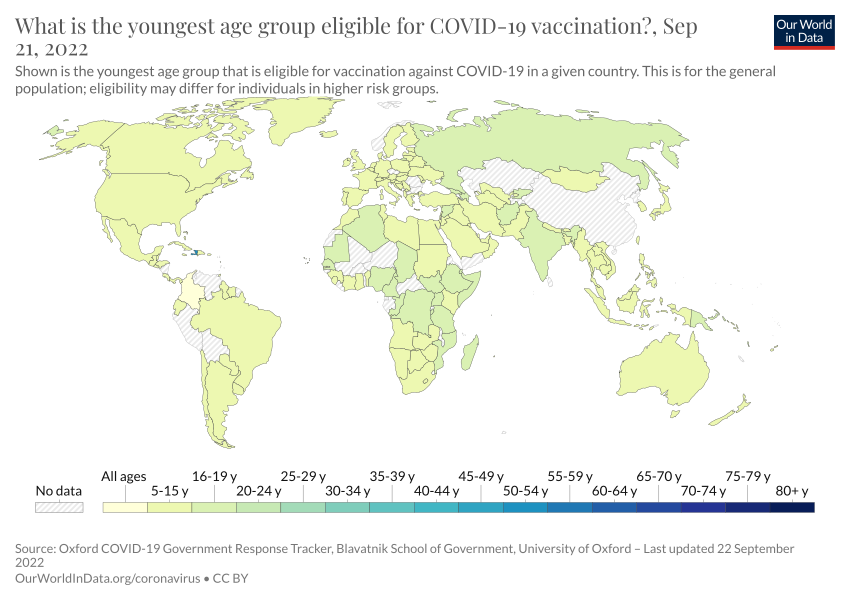
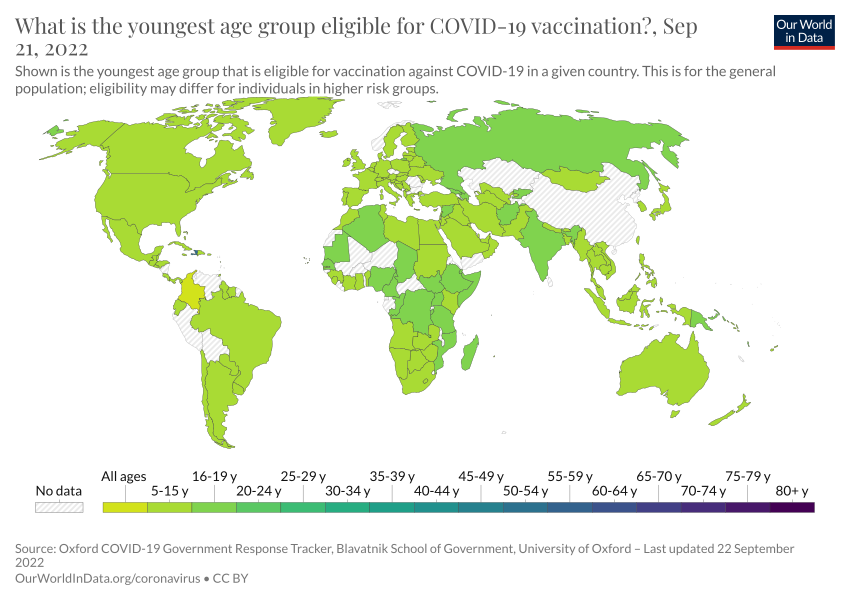
Deploy 2022-09-22T16:21:05.325Z Updating chart youngest-age-covid-vaccination

diff --git a/co2-emissions.html b/co2-emissions.html
@@ -1,4 +1,4 @@
-<!doctype html><html><head><meta name="viewport" content="width=device-width, initial-scale=1"/><title>CO2 emissions - Our World in Data</title><meta name="description" content="How much CO2 does the world emit? Which countries emit the most?"/><link rel="canonical" href="https://ourworldindata.org/co2-emissions"/><link rel="alternate" type="application/atom+xml" href="/atom.xml"/><link rel="apple-touch-icon" sizes="180x180" href="/apple-touch-icon.png"/><meta property="fb:app_id" content="1149943818390250"/><meta property="og:url" content="https://ourworldindata.org/co2-emissions"/><meta property="og:title" content="CO2 emissions"/><meta property="og:description" content="How much CO2 does the world emit? Which countries emit the most?"/><meta property="og:image" content="https://ourworldindata.org/uploads/2022/03/Screenshot-2022-03-04-at-16.51.31-768x480.png"/><meta property="og:site_name" content="Our World in Data"/><meta name="twitter:card" content="summary_large_image"/><meta name="twitter:site" content="@OurWorldInData"/><meta name="twitter:creator" content="@OurWorldInData"/><meta name="twitter:title" content="CO2 emissions"/><meta name="twitter:description" content="How much CO2 does the world emit? Which countries emit the most?"/><meta name="twitter:image" content="https://ourworldindata.org/uploads/2022/03/Screenshot-2022-03-04-at-16.51.31-768x480.png"/><link href="https://fonts.googleapis.com/css?family=Lato:300,400,400i,700,700i|Playfair+Display:400,700&amp;display=swap" rel="stylesheet"/><link rel="stylesheet" href="https://ourworldindata.org/assets/commons.css"/><link rel="stylesheet" href="https://ourworldindata.org/assets/owid.css"/><meta name="citation_title" content="CO₂ and Greenhouse Gas Emissions"/><meta name="citation_fulltext_html_url" content="https://ourworldindata.org/co2-and-other-greenhouse-gas-emissions"/><meta name="citation_fulltext_world_readable" content=""/><meta name="citation_publication_date" content="2020/05/11"/><meta name="citation_journal_title" content="Our World in Data"/><meta name="citation_journal_abbrev" content="Our World in Data"/><meta name="citation_author" content="Hannah Ritchie"/><meta name="citation_author" content="Max Roser"/><meta name="citation_author" content="Pablo Rosado"/></head><body class=""><header class="site-header"><div class="wrapper site-navigation-bar"><div class="site-logo"><a href="/">Our World<br/> in Data</a></div><nav class="site-navigation"><div class="topics-button-wrapper"><a href="/#entries" class="topics-button"><div class="label">Articles <br/><strong>by topic</strong></div><div class="icon"><svg width="12" height="6"><path d="M0,0 L12,0 L6,6 Z" fill="currentColor"></path></svg></div></a></div><div><div class="site-primary-navigation"><form class="HeaderSearch" action="/search" method="GET"><input type="search" name="q" placeholder="Search..."/><div class="icon"><svg aria-hidden="true" focusable="false" data-prefix="fas" data-icon="magnifying-glass" class="svg-inline--fa fa-magnifying-glass " role="img" xmlns="http://www.w3.org/2000/svg" viewBox="0 0 512 512"><path fill="currentColor" d="M416 208c0 45.9-14.9 88.3-40 122.7L502.6 457.4c12.5 12.5 12.5 32.8 0 45.3s-32.8 12.5-45.3 0L330.7 376c-34.4 25.2-76.8 40-122.7 40C93.1 416 0 322.9 0 208S93.1 0 208 0S416 93.1 416 208zM208 352c79.5 0 144-64.5 144-144s-64.5-144-144-144S64 128.5 64 208s64.5 144 144 144z"></path></svg></div></form><ul class="site-primary-links"><li><a href="/blog" data-track-note="header-navigation">Latest</a></li><li><a href="/about" data-track-note="header-navigation">About</a></li><li><a href="/donate" data-track-note="header-navigation">Donate</a></li></ul></div><div class="site-secondary-navigation"><ul class="site-secondary-links"><li><a href="/charts" data-track-note="header-navigation">All charts</a></li><li><a href="https://sdg-tracker.org" data-track-note="header-navigation">Sustainable Development Goals Tracker</a></li></ul></div></div></nav><div class="header-logos-wrapper"><a href="https://www.oxfordmartin.ox.ac.uk/global-development" class="oxford-logo"><img src="https://ourworldindata.org/oms-logo.svg" alt="Oxford Martin School logo"/></a><a href="https://global-change-data-lab.org/" class="gcdl-logo"><img src="https://ourworldindata.org/gcdl-logo.svg" alt="Global Change Data Lab logo"/></a></div><div class="mobile-site-navigation"><button data-track-note="mobile-search-button"><svg aria-hidden="true" focusable="false" data-prefix="fas" data-icon="magnifying-glass" class="svg-inline--fa fa-magnifying-glass " role="img" xmlns="http://www.w3.org/2000/svg" viewBox="0 0 512 512"><path fill="currentColor" d="M416 208c0 45.9-14.9 88.3-40 122.7L502.6 457.4c12.5 12.5 12.5 32.8 0 45.3s-32.8 12.5-45.3 0L330.7 376c-34.4 25.2-76.8 40-122.7 40C93.1 416 0 322.9 0 208S93.1 0 208 0S416 93.1 416 208zM208 352c79.5 0 144-64.5 144-144s-64.5-144-144-144S64 128.5 64 208s64.5 144 144 144z"></path></svg></button><button data-track-note="mobile-newsletter-button"><svg aria-hidden="true" focusable="false" data-prefix="fas" data-icon="envelope-open-text" class="svg-inline--fa fa-envelope-open-text " role="img" xmlns="http://www.w3.org/2000/svg" viewBox="0 0 512 512"><path fill="currentColor" d="M215.4 96H144 107.8 96v8.8V144v40.4 89L.2 202.5c1.6-18.1 10.9-34.9 25.7-45.8L48 140.3V96c0-26.5 21.5-48 48-48h76.6l49.9-36.9C232.2 3.9 243.9 0 256 0s23.8 3.9 33.5 11L339.4 48H416c26.5 0 48 21.5 48 48v44.3l22.1 16.4c14.8 10.9 24.1 27.7 25.7 45.8L416 273.4v-89V144 104.8 96H404.2 368 296.6 215.4zM0 448V242.1L217.6 403.3c11.1 8.2 24.6 12.7 38.4 12.7s27.3-4.4 38.4-12.7L512 242.1V448v0c0 35.3-28.7 64-64 64H64c-35.3 0-64-28.7-64-64v0zM176 160H336c8.8 0 16 7.2 16 16s-7.2 16-16 16H176c-8.8 0-16-7.2-16-16s7.2-16 16-16zm0 64H336c8.8 0 16 7.2 16 16s-7.2 16-16 16H176c-8.8 0-16-7.2-16-16s7.2-16 16-16z"></path></svg></button><button data-track-note="mobile-hamburger-button"><svg aria-hidden="true" focusable="false" data-prefix="fas" data-icon="bars" class="svg-inline--fa fa-bars " role="img" xmlns="http://www.w3.org/2000/svg" viewBox="0 0 448 512"><path fill="currentColor" d="M0 96C0 78.3 14.3 64 32 64H416c17.7 0 32 14.3 32 32s-14.3 32-32 32H32C14.3 128 0 113.7 0 96zM0 256c0-17.7 14.3-32 32-32H416c17.7 0 32 14.3 32 32s-14.3 32-32 32H32c-17.7 0-32-14.3-32-32zM448 416c0 17.7-14.3 32-32 32H32c-17.7 0-32-14.3-32-32s14.3-32 32-32H416c17.7 0 32 14.3 32 32z"></path></svg></button></div></div></header><div class="alert-banner"><div class="content"><div class="text"><strong>COVID-19 vaccinations, cases, excess mortality, and much more</strong></div><a href="/coronavirus#explore-the-global-situation" data-track-note="covid-banner-click">Explore our COVID-19 data</a></div></div><main><article class="page with-sidebar large-banner"><div class="offset-header"><header class="article-header"><div class="article-titles"><h1 class="entry-title">CO2 emissions</h1><div class="breadcrumb"><a href="/">Home</a><span class="separator"><svg aria-hidden="true" focusable="false" data-prefix="fas" data-icon="angle-right" class="svg-inline--fa fa-angle-right " role="img" xmlns="http://www.w3.org/2000/svg" viewBox="0 0 320 512"><path fill="currentColor" d="M278.6 233.4c12.5 12.5 12.5 32.8 0 45.3l-160 160c-12.5 12.5-32.8 12.5-45.3 0s-12.5-32.8 0-45.3L210.7 256 73.4 118.6c-12.5-12.5-12.5-32.8 0-45.3s32.8-12.5 45.3 0l160 160z"></path></svg></span><a data-track-note="breadcrumb" href="/co2-and-other-greenhouse-gas-emissions">CO₂ and GHG Emissions</a><span class="separator"><svg aria-hidden="true" focusable="false" data-prefix="fas" data-icon="angle-right" class="svg-inline--fa fa-angle-right " role="img" xmlns="http://www.w3.org/2000/svg" viewBox="0 0 320 512"><path fill="currentColor" d="M278.6 233.4c12.5 12.5 12.5 32.8 0 45.3l-160 160c-12.5 12.5-32.8 12.5-45.3 0s-12.5-32.8 0-45.3L210.7 256 73.4 118.6c-12.5-12.5-12.5-32.8 0-45.3s32.8-12.5 45.3 0l160 160z"></path></svg></span><span>CO₂ emissions</span></div></div><div class="authors-byline"><a href="/team">by Hannah Ritchie and Max Roser</a></div><div class="tools"><a href="#licence"><svg aria-hidden="true" focusable="false" data-prefix="fab" data-icon="creative-commons" class="svg-inline--fa fa-creative-commons " role="img" xmlns="http://www.w3.org/2000/svg" viewBox="0 0 496 512"><path fill="currentColor" d="M245.83 214.87l-33.22 17.28c-9.43-19.58-25.24-19.93-27.46-19.93-22.13 0-33.22 14.61-33.22 43.84 0 23.57 9.21 43.84 33.22 43.84 14.47 0 24.65-7.09 30.57-21.26l30.55 15.5c-6.17 11.51-25.69 38.98-65.1 38.98-22.6 0-73.96-10.32-73.96-77.05 0-58.69 43-77.06 72.63-77.06 30.72-.01 52.7 11.95 65.99 35.86zm143.05 0l-32.78 17.28c-9.5-19.77-25.72-19.93-27.9-19.93-22.14 0-33.22 14.61-33.22 43.84 0 23.55 9.23 43.84 33.22 43.84 14.45 0 24.65-7.09 30.54-21.26l31 15.5c-2.1 3.75-21.39 38.98-65.09 38.98-22.69 0-73.96-9.87-73.96-77.05 0-58.67 42.97-77.06 72.63-77.06 30.71-.01 52.58 11.95 65.56 35.86zM247.56 8.05C104.74 8.05 0 123.11 0 256.05c0 138.49 113.6 248 247.56 248 129.93 0 248.44-100.87 248.44-248 0-137.87-106.62-248-248.44-248zm.87 450.81c-112.54 0-203.7-93.04-203.7-202.81 0-105.42 85.43-203.27 203.72-203.27 112.53 0 202.82 89.46 202.82 203.26-.01 121.69-99.68 202.82-202.84 202.82z"></path></svg>Reuse our work freely</a><a href="#citation"><svg aria-hidden="true" focusable="false" data-prefix="fas" data-icon="book" class="svg-inline--fa fa-book " role="img" xmlns="http://www.w3.org/2000/svg" viewBox="0 0 448 512"><path fill="currentColor" d="M96 0C43 0 0 43 0 96V416c0 53 43 96 96 96H384h32c17.7 0 32-14.3 32-32s-14.3-32-32-32V384c17.7 0 32-14.3 32-32V32c0-17.7-14.3-32-32-32H384 96zm0 384H352v64H96c-17.7 0-32-14.3-32-32s14.3-32 32-32zm32-240c0-8.8 7.2-16 16-16H336c8.8 0 16 7.2 16 16s-7.2 16-16 16H144c-8.8 0-16-7.2-16-16zm16 48H336c8.8 0 16 7.2 16 16s-7.2 16-16 16H144c-8.8 0-16-7.2-16-16s7.2-16 16-16z"></path></svg>Cite this research</a></div></header></div><div class="offset-subnavigation"><div class="site-subnavigation"><div class="site-subnavigation-scroll"><ul class="site-subnavigation-links"><li class="highlight"><a href="/co2-and-other-greenhouse-gas-emissions" data-track-note="co2-subnav-co2-and-ghg-emissions">CO₂ and GHG Emissions<svg aria-hidden="true" focusable="false" data-prefix="fas" data-icon="chevron-left" class="svg-inline--fa fa-chevron-left " role="img" xmlns="http://www.w3.org/2000/svg" viewBox="0 0 384 512"><path fill="currentColor" d="M41.4 233.4c-12.5 12.5-12.5 32.8 0 45.3l192 192c12.5 12.5 32.8 12.5 45.3 0s12.5-32.8 0-45.3L109.3 256 278.6 86.6c12.5-12.5 12.5-32.8 0-45.3s-32.8-12.5-45.3 0l-192 192z"></path></svg></a></li><li class=""><a href="/co2-and-other-greenhouse-gas-emissions#co2-and-greenhouse-gas-emissions-country-profiles" data-track-note="co2-subnav-by-country">By country</a></li><li class=""><a href="/explorers/co2" data-track-note="co2-subnav-co2-data-explorer">Data explorer</a></li><li class="current"><a href="/co2-emissions" data-track-note="co2-subnav-co2-emissions">CO₂ emissions</a></li><li class=""><a href="/emissions-by-fuel" data-track-note="co2-subnav-by-fuel">CO₂ by fuel</a></li><li class=""><a href="/greenhouse-gas-emissions" data-track-note="co2-subnav-ghg-emissions">GHG emissions</a></li><li class=""><a href="/emissions-by-sector" data-track-note="co2-subnav-by-sector">By sector</a></li><li class=""><a href="/atmospheric-concentrations" data-track-note="co2-subnav-atm-concentrations">Atmospheric concentrations</a></li><li class=""><a href="/explorers/climate-change" data-track-note="co2-subnav-climate-impacts">Climate impacts</a></li></ul></div></div></div><div class="content-wrapper"><div class="toc-wrapper"><aside class="entry-sidebar"><div class="sticky-sentinel"></div><nav class="entry-toc"><ul><li><a href="#" data-track-note="toc-header">CO2 emissions</a></li><li class="section"><a href="#global-co2-emissions-from-fossil-fuels" data-track-note="toc-link">Global CO2 emissions from fossil fuels</a></li><li class="subsection"><a href="#global-co2-emissions-from-fossil-fuels-global-co2-emissions-from-fossil-fuels" data-track-note="toc-link">Global CO2 emissions from fossil fuels</a></li><li class="subsection"><a href="#global-co2-emissions-from-fossil-fuels-and-land-use-change" data-track-note="toc-link">Global CO2 emissions from fossil fuels and land use change</a></li><li class="subsection"><a href="#co2-emissions-by-region" data-track-note="toc-link">CO2 emissions by region</a></li><li class="section"><a href="#per-capita-co2-emissions" data-track-note="toc-link">Per capita CO2 emissions</a></li><li class="section"><a href="#annual-co2-emissions" data-track-note="toc-link">Annual CO2 emissions</a></li><li class="section"><a href="#annual-change-in-co2-emissions" data-track-note="toc-link">Annual change in CO2 emissions</a></li><li class="section"><a href="#cumulative-co2-emissions" data-track-note="toc-link">Cumulative CO2 emissions</a></li><li class="section"><a href="#consumption-based-trade-adjusted-emissions" data-track-note="toc-link">Consumption-based (trade-adjusted) emissions</a></li><li class="section"><a href="#decoupling-co2-emissions-from-economic-growth" data-track-note="toc-link">Decoupling CO₂ emissions from economic growth</a></li><li class="section"><a href="#global-inequalities-in-co2-emissions" data-track-note="toc-link">Global inequalities in CO2 emissions</a></li><li class="subsection"><a href="#global-inequalities-by-production" data-track-note="toc-link">Global inequalities by production</a></li><li class="subsection"><a href="#global-inequalities-by-consumption" data-track-note="toc-link">Global inequalities by consumption</a></li><li class="section"><a href="#how-do-we-measure-or-estimate-co2-emissions" data-track-note="toc-link">How do we measure or estimate CO2 emissions?</a></li><li class="section"><a href="#endnotes" data-track-note="toc-link">Endnotes</a></li><li class="section"><a href="#licence" data-track-note="toc-link">Licence</a></li><li class="section"><a href="#citation" data-track-note="toc-link">Citation</a></li></ul></nav><div class="toggle-toc"><button data-track-note="page-toggle-toc" aria-label="Open table of contents"><svg aria-hidden="true" focusable="false" data-prefix="fas" data-icon="bars" class="svg-inline--fa fa-bars " role="img" xmlns="http://www.w3.org/2000/svg" viewBox="0 0 448 512"><path fill="currentColor" d="M0 96C0 78.3 14.3 64 32 64H416c17.7 0 32 14.3 32 32s-14.3 32-32 32H32C14.3 128 0 113.7 0 96zM0 256c0-17.7 14.3-32 32-32H416c17.7 0 32 14.3 32 32s-14.3 32-32 32H32c-17.7 0-32-14.3-32-32zM448 416c0 17.7-14.3 32-32 32H32c-17.7 0-32-14.3-32-32s14.3-32 32-32H416c17.7 0 32 14.3 32 32z"></path></svg><span class="label">Contents</span></button></div></aside></div><div class="offset-content"><div class="content-and-footnotes"><div class="article-content"><section><div class="wp-block-columns is-style-sticky-right"><div class="wp-block-column"><p>You can&nbsp;<strong><a href="https://github.com/owid/co2-data">download</a></strong>&nbsp;our complete <em>Our World in Data</em> CO<sub>2</sub> and Greenhouse Gas Emissions database.</p><hr class="wp-block-separator"><p>Carbon dioxide emissions are the primary driver of global climate change. It’s widely recognised that to avoid the worst impacts of climate change, the world needs to urgently reduce emissions. But, how this responsibility is shared between regions, countries, and individuals has been an endless point of contention in international discussions. </p><p>This debate arises from the various ways in which emissions are compared: as annual emissions by country; emissions per person; historical contributions; and whether they adjust for traded goods and services. These metrics can tell very different stories. </p><p>We teamed up with the YouTube channel, <em>Kurzgesagt</em>, to produce a video which explored these different metrics in detail: <a href="https://www.youtube.com/watch?v=ipVxxxqwBQw">‘Who is responsible for climate change? – Who needs to fix it?’</a>. All of the data and research featured in this video is contained in this article: below we look in detail at the many ways emissions are broken down.</p><div class="wp-container-632c86b216b20 wp-block-group">    <div class="block-wrapper"><div class="wp-block-owid-prominent-link with-image" data-no-lightbox="true" data-style="is-style-thin" data-title="&nbsp;‘Who is responsible for climate change? – Who needs to fix it?’"><a href="https://www.youtube.com/watch?v=ipVxxxqwBQw"><figure><img width="768" height="433" src="https://ourworldindata.org/uploads/2020/06/CO2-Kurzgesagt-768x433.png" class="attachment-medium_large size-medium_large" alt="Co2 kurzgesagt" loading="lazy" srcset="https://ourworldindata.org/uploads/2020/06/CO2-Kurzgesagt-768x433.png 768w, https://ourworldindata.org/uploads/2020/06/CO2-Kurzgesagt-400x225.png 400w, https://ourworldindata.org/uploads/2020/06/CO2-Kurzgesagt-800x451.png 800w, https://ourworldindata.org/uploads/2020/06/CO2-Kurzgesagt-150x84.png 150w, https://ourworldindata.org/uploads/2020/06/CO2-Kurzgesagt.png 1422w" sizes="(max-width: 768px) 100vw, 768px" data-high-res-src="https://ourworldindata.org/uploads/2020/06/CO2-Kurzgesagt.png"></figure><div class="content-wrapper"><div class="content">
+<!doctype html><html><head><meta name="viewport" content="width=device-width, initial-scale=1"/><title>CO2 emissions - Our World in Data</title><meta name="description" content="How much CO2 does the world emit? Which countries emit the most?"/><link rel="canonical" href="https://ourworldindata.org/co2-emissions"/><link rel="alternate" type="application/atom+xml" href="/atom.xml"/><link rel="apple-touch-icon" sizes="180x180" href="/apple-touch-icon.png"/><meta property="fb:app_id" content="1149943818390250"/><meta property="og:url" content="https://ourworldindata.org/co2-emissions"/><meta property="og:title" content="CO2 emissions"/><meta property="og:description" content="How much CO2 does the world emit? Which countries emit the most?"/><meta property="og:image" content="https://ourworldindata.org/uploads/2022/03/Screenshot-2022-03-04-at-16.51.31-768x480.png"/><meta property="og:site_name" content="Our World in Data"/><meta name="twitter:card" content="summary_large_image"/><meta name="twitter:site" content="@OurWorldInData"/><meta name="twitter:creator" content="@OurWorldInData"/><meta name="twitter:title" content="CO2 emissions"/><meta name="twitter:description" content="How much CO2 does the world emit? Which countries emit the most?"/><meta name="twitter:image" content="https://ourworldindata.org/uploads/2022/03/Screenshot-2022-03-04-at-16.51.31-768x480.png"/><link href="https://fonts.googleapis.com/css?family=Lato:300,400,400i,700,700i|Playfair+Display:400,700&amp;display=swap" rel="stylesheet"/><link rel="stylesheet" href="https://ourworldindata.org/assets/commons.css"/><link rel="stylesheet" href="https://ourworldindata.org/assets/owid.css"/><meta name="citation_title" content="CO₂ and Greenhouse Gas Emissions"/><meta name="citation_fulltext_html_url" content="https://ourworldindata.org/co2-and-other-greenhouse-gas-emissions"/><meta name="citation_fulltext_world_readable" content=""/><meta name="citation_publication_date" content="2020/05/11"/><meta name="citation_journal_title" content="Our World in Data"/><meta name="citation_journal_abbrev" content="Our World in Data"/><meta name="citation_author" content="Hannah Ritchie"/><meta name="citation_author" content="Max Roser"/><meta name="citation_author" content="Pablo Rosado"/></head><body class=""><header class="site-header"><div class="wrapper site-navigation-bar"><div class="site-logo"><a href="/">Our World<br/> in Data</a></div><nav class="site-navigation"><div class="topics-button-wrapper"><a href="/#entries" class="topics-button"><div class="label">Articles <br/><strong>by topic</strong></div><div class="icon"><svg width="12" height="6"><path d="M0,0 L12,0 L6,6 Z" fill="currentColor"></path></svg></div></a></div><div><div class="site-primary-navigation"><form class="HeaderSearch" action="/search" method="GET"><input type="search" name="q" placeholder="Search..."/><div class="icon"><svg aria-hidden="true" focusable="false" data-prefix="fas" data-icon="magnifying-glass" class="svg-inline--fa fa-magnifying-glass " role="img" xmlns="http://www.w3.org/2000/svg" viewBox="0 0 512 512"><path fill="currentColor" d="M416 208c0 45.9-14.9 88.3-40 122.7L502.6 457.4c12.5 12.5 12.5 32.8 0 45.3s-32.8 12.5-45.3 0L330.7 376c-34.4 25.2-76.8 40-122.7 40C93.1 416 0 322.9 0 208S93.1 0 208 0S416 93.1 416 208zM208 352c79.5 0 144-64.5 144-144s-64.5-144-144-144S64 128.5 64 208s64.5 144 144 144z"></path></svg></div></form><ul class="site-primary-links"><li><a href="/blog" data-track-note="header-navigation">Latest</a></li><li><a href="/about" data-track-note="header-navigation">About</a></li><li><a href="/donate" data-track-note="header-navigation">Donate</a></li></ul></div><div class="site-secondary-navigation"><ul class="site-secondary-links"><li><a href="/charts" data-track-note="header-navigation">All charts</a></li><li><a href="https://sdg-tracker.org" data-track-note="header-navigation">Sustainable Development Goals Tracker</a></li></ul></div></div></nav><div class="header-logos-wrapper"><a href="https://www.oxfordmartin.ox.ac.uk/global-development" class="oxford-logo"><img src="https://ourworldindata.org/oms-logo.svg" alt="Oxford Martin School logo"/></a><a href="https://global-change-data-lab.org/" class="gcdl-logo"><img src="https://ourworldindata.org/gcdl-logo.svg" alt="Global Change Data Lab logo"/></a></div><div class="mobile-site-navigation"><button data-track-note="mobile-search-button"><svg aria-hidden="true" focusable="false" data-prefix="fas" data-icon="magnifying-glass" class="svg-inline--fa fa-magnifying-glass " role="img" xmlns="http://www.w3.org/2000/svg" viewBox="0 0 512 512"><path fill="currentColor" d="M416 208c0 45.9-14.9 88.3-40 122.7L502.6 457.4c12.5 12.5 12.5 32.8 0 45.3s-32.8 12.5-45.3 0L330.7 376c-34.4 25.2-76.8 40-122.7 40C93.1 416 0 322.9 0 208S93.1 0 208 0S416 93.1 416 208zM208 352c79.5 0 144-64.5 144-144s-64.5-144-144-144S64 128.5 64 208s64.5 144 144 144z"></path></svg></button><button data-track-note="mobile-newsletter-button"><svg aria-hidden="true" focusable="false" data-prefix="fas" data-icon="envelope-open-text" class="svg-inline--fa fa-envelope-open-text " role="img" xmlns="http://www.w3.org/2000/svg" viewBox="0 0 512 512"><path fill="currentColor" d="M215.4 96H144 107.8 96v8.8V144v40.4 89L.2 202.5c1.6-18.1 10.9-34.9 25.7-45.8L48 140.3V96c0-26.5 21.5-48 48-48h76.6l49.9-36.9C232.2 3.9 243.9 0 256 0s23.8 3.9 33.5 11L339.4 48H416c26.5 0 48 21.5 48 48v44.3l22.1 16.4c14.8 10.9 24.1 27.7 25.7 45.8L416 273.4v-89V144 104.8 96H404.2 368 296.6 215.4zM0 448V242.1L217.6 403.3c11.1 8.2 24.6 12.7 38.4 12.7s27.3-4.4 38.4-12.7L512 242.1V448v0c0 35.3-28.7 64-64 64H64c-35.3 0-64-28.7-64-64v0zM176 160H336c8.8 0 16 7.2 16 16s-7.2 16-16 16H176c-8.8 0-16-7.2-16-16s7.2-16 16-16zm0 64H336c8.8 0 16 7.2 16 16s-7.2 16-16 16H176c-8.8 0-16-7.2-16-16s7.2-16 16-16z"></path></svg></button><button data-track-note="mobile-hamburger-button"><svg aria-hidden="true" focusable="false" data-prefix="fas" data-icon="bars" class="svg-inline--fa fa-bars " role="img" xmlns="http://www.w3.org/2000/svg" viewBox="0 0 448 512"><path fill="currentColor" d="M0 96C0 78.3 14.3 64 32 64H416c17.7 0 32 14.3 32 32s-14.3 32-32 32H32C14.3 128 0 113.7 0 96zM0 256c0-17.7 14.3-32 32-32H416c17.7 0 32 14.3 32 32s-14.3 32-32 32H32c-17.7 0-32-14.3-32-32zM448 416c0 17.7-14.3 32-32 32H32c-17.7 0-32-14.3-32-32s14.3-32 32-32H416c17.7 0 32 14.3 32 32z"></path></svg></button></div></div></header><div class="alert-banner"><div class="content"><div class="text"><strong>COVID-19 vaccinations, cases, excess mortality, and much more</strong></div><a href="/coronavirus#explore-the-global-situation" data-track-note="covid-banner-click">Explore our COVID-19 data</a></div></div><main><article class="page with-sidebar large-banner"><div class="offset-header"><header class="article-header"><div class="article-titles"><h1 class="entry-title">CO2 emissions</h1><div class="breadcrumb"><a href="/">Home</a><span class="separator"><svg aria-hidden="true" focusable="false" data-prefix="fas" data-icon="angle-right" class="svg-inline--fa fa-angle-right " role="img" xmlns="http://www.w3.org/2000/svg" viewBox="0 0 320 512"><path fill="currentColor" d="M278.6 233.4c12.5 12.5 12.5 32.8 0 45.3l-160 160c-12.5 12.5-32.8 12.5-45.3 0s-12.5-32.8 0-45.3L210.7 256 73.4 118.6c-12.5-12.5-12.5-32.8 0-45.3s32.8-12.5 45.3 0l160 160z"></path></svg></span><a data-track-note="breadcrumb" href="/co2-and-other-greenhouse-gas-emissions">CO₂ and GHG Emissions</a><span class="separator"><svg aria-hidden="true" focusable="false" data-prefix="fas" data-icon="angle-right" class="svg-inline--fa fa-angle-right " role="img" xmlns="http://www.w3.org/2000/svg" viewBox="0 0 320 512"><path fill="currentColor" d="M278.6 233.4c12.5 12.5 12.5 32.8 0 45.3l-160 160c-12.5 12.5-32.8 12.5-45.3 0s-12.5-32.8 0-45.3L210.7 256 73.4 118.6c-12.5-12.5-12.5-32.8 0-45.3s32.8-12.5 45.3 0l160 160z"></path></svg></span><span>CO₂ emissions</span></div></div><div class="authors-byline"><a href="/team">by Hannah Ritchie and Max Roser</a></div><div class="tools"><a href="#licence"><svg aria-hidden="true" focusable="false" data-prefix="fab" data-icon="creative-commons" class="svg-inline--fa fa-creative-commons " role="img" xmlns="http://www.w3.org/2000/svg" viewBox="0 0 496 512"><path fill="currentColor" d="M245.83 214.87l-33.22 17.28c-9.43-19.58-25.24-19.93-27.46-19.93-22.13 0-33.22 14.61-33.22 43.84 0 23.57 9.21 43.84 33.22 43.84 14.47 0 24.65-7.09 30.57-21.26l30.55 15.5c-6.17 11.51-25.69 38.98-65.1 38.98-22.6 0-73.96-10.32-73.96-77.05 0-58.69 43-77.06 72.63-77.06 30.72-.01 52.7 11.95 65.99 35.86zm143.05 0l-32.78 17.28c-9.5-19.77-25.72-19.93-27.9-19.93-22.14 0-33.22 14.61-33.22 43.84 0 23.55 9.23 43.84 33.22 43.84 14.45 0 24.65-7.09 30.54-21.26l31 15.5c-2.1 3.75-21.39 38.98-65.09 38.98-22.69 0-73.96-9.87-73.96-77.05 0-58.67 42.97-77.06 72.63-77.06 30.71-.01 52.58 11.95 65.56 35.86zM247.56 8.05C104.74 8.05 0 123.11 0 256.05c0 138.49 113.6 248 247.56 248 129.93 0 248.44-100.87 248.44-248 0-137.87-106.62-248-248.44-248zm.87 450.81c-112.54 0-203.7-93.04-203.7-202.81 0-105.42 85.43-203.27 203.72-203.27 112.53 0 202.82 89.46 202.82 203.26-.01 121.69-99.68 202.82-202.84 202.82z"></path></svg>Reuse our work freely</a><a href="#citation"><svg aria-hidden="true" focusable="false" data-prefix="fas" data-icon="book" class="svg-inline--fa fa-book " role="img" xmlns="http://www.w3.org/2000/svg" viewBox="0 0 448 512"><path fill="currentColor" d="M96 0C43 0 0 43 0 96V416c0 53 43 96 96 96H384h32c17.7 0 32-14.3 32-32s-14.3-32-32-32V384c17.7 0 32-14.3 32-32V32c0-17.7-14.3-32-32-32H384 96zm0 384H352v64H96c-17.7 0-32-14.3-32-32s14.3-32 32-32zm32-240c0-8.8 7.2-16 16-16H336c8.8 0 16 7.2 16 16s-7.2 16-16 16H144c-8.8 0-16-7.2-16-16zm16 48H336c8.8 0 16 7.2 16 16s-7.2 16-16 16H144c-8.8 0-16-7.2-16-16s7.2-16 16-16z"></path></svg>Cite this research</a></div></header></div><div class="offset-subnavigation"><div class="site-subnavigation"><div class="site-subnavigation-scroll"><ul class="site-subnavigation-links"><li class="highlight"><a href="/co2-and-other-greenhouse-gas-emissions" data-track-note="co2-subnav-co2-and-ghg-emissions">CO₂ and GHG Emissions<svg aria-hidden="true" focusable="false" data-prefix="fas" data-icon="chevron-left" class="svg-inline--fa fa-chevron-left " role="img" xmlns="http://www.w3.org/2000/svg" viewBox="0 0 384 512"><path fill="currentColor" d="M41.4 233.4c-12.5 12.5-12.5 32.8 0 45.3l192 192c12.5 12.5 32.8 12.5 45.3 0s12.5-32.8 0-45.3L109.3 256 278.6 86.6c12.5-12.5 12.5-32.8 0-45.3s-32.8-12.5-45.3 0l-192 192z"></path></svg></a></li><li class=""><a href="/co2-and-other-greenhouse-gas-emissions#co2-and-greenhouse-gas-emissions-country-profiles" data-track-note="co2-subnav-by-country">By country</a></li><li class=""><a href="/explorers/co2" data-track-note="co2-subnav-co2-data-explorer">Data explorer</a></li><li class="current"><a href="/co2-emissions" data-track-note="co2-subnav-co2-emissions">CO₂ emissions</a></li><li class=""><a href="/emissions-by-fuel" data-track-note="co2-subnav-by-fuel">CO₂ by fuel</a></li><li class=""><a href="/greenhouse-gas-emissions" data-track-note="co2-subnav-ghg-emissions">GHG emissions</a></li><li class=""><a href="/emissions-by-sector" data-track-note="co2-subnav-by-sector">By sector</a></li><li class=""><a href="/atmospheric-concentrations" data-track-note="co2-subnav-atm-concentrations">Atmospheric concentrations</a></li><li class=""><a href="/explorers/climate-change" data-track-note="co2-subnav-climate-impacts">Climate impacts</a></li></ul></div></div></div><div class="content-wrapper"><div class="toc-wrapper"><aside class="entry-sidebar"><div class="sticky-sentinel"></div><nav class="entry-toc"><ul><li><a href="#" data-track-note="toc-header">CO2 emissions</a></li><li class="section"><a href="#global-co2-emissions-from-fossil-fuels" data-track-note="toc-link">Global CO2 emissions from fossil fuels</a></li><li class="subsection"><a href="#global-co2-emissions-from-fossil-fuels-global-co2-emissions-from-fossil-fuels" data-track-note="toc-link">Global CO2 emissions from fossil fuels</a></li><li class="subsection"><a href="#global-co2-emissions-from-fossil-fuels-and-land-use-change" data-track-note="toc-link">Global CO2 emissions from fossil fuels and land use change</a></li><li class="subsection"><a href="#co2-emissions-by-region" data-track-note="toc-link">CO2 emissions by region</a></li><li class="section"><a href="#per-capita-co2-emissions" data-track-note="toc-link">Per capita CO2 emissions</a></li><li class="section"><a href="#annual-co2-emissions" data-track-note="toc-link">Annual CO2 emissions</a></li><li class="section"><a href="#annual-change-in-co2-emissions" data-track-note="toc-link">Annual change in CO2 emissions</a></li><li class="section"><a href="#cumulative-co2-emissions" data-track-note="toc-link">Cumulative CO2 emissions</a></li><li class="section"><a href="#consumption-based-trade-adjusted-emissions" data-track-note="toc-link">Consumption-based (trade-adjusted) emissions</a></li><li class="section"><a href="#decoupling-co2-emissions-from-economic-growth" data-track-note="toc-link">Decoupling CO₂ emissions from economic growth</a></li><li class="section"><a href="#global-inequalities-in-co2-emissions" data-track-note="toc-link">Global inequalities in CO2 emissions</a></li><li class="subsection"><a href="#global-inequalities-by-production" data-track-note="toc-link">Global inequalities by production</a></li><li class="subsection"><a href="#global-inequalities-by-consumption" data-track-note="toc-link">Global inequalities by consumption</a></li><li class="section"><a href="#how-do-we-measure-or-estimate-co2-emissions" data-track-note="toc-link">How do we measure or estimate CO2 emissions?</a></li><li class="section"><a href="#endnotes" data-track-note="toc-link">Endnotes</a></li><li class="section"><a href="#licence" data-track-note="toc-link">Licence</a></li><li class="section"><a href="#citation" data-track-note="toc-link">Citation</a></li></ul></nav><div class="toggle-toc"><button data-track-note="page-toggle-toc" aria-label="Open table of contents"><svg aria-hidden="true" focusable="false" data-prefix="fas" data-icon="bars" class="svg-inline--fa fa-bars " role="img" xmlns="http://www.w3.org/2000/svg" viewBox="0 0 448 512"><path fill="currentColor" d="M0 96C0 78.3 14.3 64 32 64H416c17.7 0 32 14.3 32 32s-14.3 32-32 32H32C14.3 128 0 113.7 0 96zM0 256c0-17.7 14.3-32 32-32H416c17.7 0 32 14.3 32 32s-14.3 32-32 32H32c-17.7 0-32-14.3-32-32zM448 416c0 17.7-14.3 32-32 32H32c-17.7 0-32-14.3-32-32s14.3-32 32-32H416c17.7 0 32 14.3 32 32z"></path></svg><span class="label">Contents</span></button></div></aside></div><div class="offset-content"><div class="content-and-footnotes"><div class="article-content"><section><div class="wp-block-columns is-style-sticky-right"><div class="wp-block-column"><p>You can&nbsp;<strong><a href="https://github.com/owid/co2-data">download</a></strong>&nbsp;our complete <em>Our World in Data</em> CO<sub>2</sub> and Greenhouse Gas Emissions database.</p><hr class="wp-block-separator"><p>Carbon dioxide emissions are the primary driver of global climate change. It’s widely recognised that to avoid the worst impacts of climate change, the world needs to urgently reduce emissions. But, how this responsibility is shared between regions, countries, and individuals has been an endless point of contention in international discussions. </p><p>This debate arises from the various ways in which emissions are compared: as annual emissions by country; emissions per person; historical contributions; and whether they adjust for traded goods and services. These metrics can tell very different stories. </p><p>We teamed up with the YouTube channel, <em>Kurzgesagt</em>, to produce a video which explored these different metrics in detail: <a href="https://www.youtube.com/watch?v=ipVxxxqwBQw">‘Who is responsible for climate change? – Who needs to fix it?’</a>. All of the data and research featured in this video is contained in this article: below we look in detail at the many ways emissions are broken down.</p><div class="wp-container-632c8b979b0b3 wp-block-group">    <div class="block-wrapper"><div class="wp-block-owid-prominent-link with-image" data-no-lightbox="true" data-style="is-style-thin" data-title="&nbsp;‘Who is responsible for climate change? – Who needs to fix it?’"><a href="https://www.youtube.com/watch?v=ipVxxxqwBQw"><figure><img width="768" height="433" src="https://ourworldindata.org/uploads/2020/06/CO2-Kurzgesagt-768x433.png" class="attachment-medium_large size-medium_large" alt="Co2 kurzgesagt" loading="lazy" srcset="https://ourworldindata.org/uploads/2020/06/CO2-Kurzgesagt-768x433.png 768w, https://ourworldindata.org/uploads/2020/06/CO2-Kurzgesagt-400x225.png 400w, https://ourworldindata.org/uploads/2020/06/CO2-Kurzgesagt-800x451.png 800w, https://ourworldindata.org/uploads/2020/06/CO2-Kurzgesagt-150x84.png 150w, https://ourworldindata.org/uploads/2020/06/CO2-Kurzgesagt.png 1422w" sizes="(max-width: 768px) 100vw, 768px" data-high-res-src="https://ourworldindata.org/uploads/2020/06/CO2-Kurzgesagt.png"></figure><div class="content-wrapper"><div class="content">
 
 <p>We teamed up with YouTube channel <em>Kurzgesagt</em> to make a video on comparisons of CO<sub>2</sub> emissions.</p>
 

diff --git a/energy-archive.html b/energy-archive.html
@@ -201,7 +201,7 @@
 
 
 
-<div class="wp-sticky-container"><div data-project="energy" class="wp-block-search-country-profile"></div><h5><strong>Our 12 most visited country profiles</strong></h5><div class="wp-container-632c86b004490 wp-block-group"><div class="wp-block-group__inner-container">
+<div class="wp-sticky-container"><div data-project="energy" class="wp-block-search-country-profile"></div><h5><strong>Our 12 most visited country profiles</strong></h5><div class="wp-container-632c8b95b95c6 wp-block-group"><div class="wp-block-group__inner-container">
 <ul class="covid-country-tiles"><li><a href="https://ourworldindata.org/energy/country/united-states?country=~USA">United States</a></li><li><a href="https://ourworldindata.org/energy/country/united-kingdom?country=~GBR">United Kingdom</a></li><li><a href="https://ourworldindata.org/energy/country/china?country=~CHN">China</a></li><li><a href="https://ourworldindata.org/energy/country/india?country=~IND">India</a></li><li><a href="https://ourworldindata.org/energy/country/brazil?country=~BRA">Brazil</a></li><li><a href="https://ourworldindata.org/energy/country/south-africa?country=~ZAF">South Africa</a></li><li><a href="https://ourworldindata.org/energy/country/germany?country=~DEU">Germany</a></li><li><a href="https://ourworldindata.org/energy/country/spain?country=~ESP">Spain</a></li><li><a href="https://ourworldindata.org/energy/country/france?country=~FRA">France</a></li><li><a href="https://ourworldindata.org/energy/country/canada?country=~CAN">Canada</a></li><li><a href="https://ourworldindata.org/energy/country/australia?country=~AUS">Australia</a></li><li><a href="https://ourworldindata.org/energy/country/sweden?country=~SWE">Sweden</a></li></ul>
 </div></div></div></div>
 

diff --git a/co2-and-other-greenhouse-gas-emissions.html b/co2-and-other-greenhouse-gas-emissions.html
@@ -23,7 +23,7 @@
 
 
 
-<div class="wp-sticky-container"><div data-project="co2" class="wp-block-search-country-profile"></div><h5><strong>Our 12 most visited country profiles</strong></h5><div class="wp-container-632c86b22fecb wp-block-group">
+<div class="wp-sticky-container"><div data-project="co2" class="wp-block-search-country-profile"></div><h5><strong>Our 12 most visited country profiles</strong></h5><div class="wp-container-632c8b97b3579 wp-block-group">
 <ul class="covid-country-tiles"><li><a href="https://ourworldindata.org/co2/country/united-states?country=~USA">United States</a></li><li><a href="https://ourworldindata.org/co2/country/united-kingdom?country=~GBR">United Kingdom</a></li><li><a href="https://ourworldindata.org/co2/country/china?country=~CHN">China</a></li><li><a href="https://ourworldindata.org/co2/country/india?country=~IND">India</a></li><li><a href="https://ourworldindata.org/co2/country/brazil?country=~BRA">Brazil</a></li><li><a href="https://ourworldindata.org/co2/country/south-africa?country=~ZAF">South Africa</a></li><li><a href="https://ourworldindata.org/co2/country/germany?country=~DEU">Germany</a></li><li><a href="https://ourworldindata.org/co2/country/spain?country=~ESP">Spain</a></li><li><a href="https://ourworldindata.org/co2/country/france?country=~FRA">France</a></li><li><a href="https://ourworldindata.org/co2/country/canada?country=~CAN">Canada</a></li><li><a href="https://ourworldindata.org/co2/country/australia?country=~AUS">Australia</a></li><li><a href="https://ourworldindata.org/co2/country/sweden?country=~SWE">Sweden</a></li></ul>
 </div></div></div>
 

diff --git a/covid-vaccination-policy.html b/covid-vaccination-policy.html
@@ -76,7 +76,7 @@
                 
 <div class="wp-sticky-container"><figure data-grapher-src="https://ourworldindata.org/grapher/youngest-age-covid-vaccination" class="grapherPreview">
                     <a href="https://ourworldindata.org/grapher/youngest-age-covid-vaccination" target="_blank">
-                        <div><img src="https://ourworldindata.org/exports/youngest-age-covid-vaccination_v289_850x600.svg" width="850" height="600" loading="lazy" data-no-lightbox="" alt="Youngest age covid vaccination v289 850x600"></div>
+                        <div><img src="https://ourworldindata.org/exports/youngest-age-covid-vaccination_v290_850x600.svg" width="850" height="600" loading="lazy" data-no-lightbox="" alt="Youngest age covid vaccination v290 850x600"></div>
                         <div class="interactionNotice">
                             <span class="icon"><svg aria-hidden="true" focusable="false" data-prefix="fas" data-icon="hand-pointer" class="svg-inline--fa fa-hand-pointer fa-w-14" role="img" xmlns="http://www.w3.org/2000/svg" viewBox="0 0 448 617">
     <path fill="currentColor" d="M448,344.59v96a40.36,40.36,0,0,1-1.06,9.16l-32,136A40,40,0,0,1,376,616.59H168a40,40,0,0,1-32.35-16.47l-128-176a40,40,0,0,1,64.7-47.06L104,420.58v-276a40,40,0,0,1,80,0v200h8v-40a40,40,0,1,1,80,0v40h8v-24a40,40,0,1,1,80,0v24h8a40,40,0,1,1,80,0Zm-256,80h-8v96h8Zm88,0h-8v96h8Zm88,0h-8v96h8Z" transform="translate(0 -0.41)"></path>

diff --git a/grapher/youngest-age-covid-vaccination.html b/grapher/youngest-age-covid-vaccination.html
@@ -7,8 +7,9 @@
   "map": {
     "time": "latest",
     "colorScale": {
-      "baseColorScheme": "YlGnBu",
+      "baseColorScheme": "Viridis",
       "binningStrategy": "manual",
+      "colorSchemeInvert": true,
       "customNumericColors": [
         null,
         null,
@@ -258,7 +259,7 @@
     "max": 0,
     "min": 0
   },
-  "version": 289,
+  "version": 291,
   "subtitle": "Shown is the youngest age group that is eligible for vaccination against COVID-19 in a given country. This is for the general population; eligibility may differ for individuals in higher risk groups.",
   "hasMapTab": true,
   "originUrl": "ourworldindata.org/coronavirus",

diff --git a/democracy.html b/democracy.html
@@ -1862,7 +1862,7 @@ Justifies democracy characteristics</td>
 
 
 
-<div class="wp-container-632c86b7bb242 wp-block-group">
+<div class="wp-container-632c8b9c8c525 wp-block-group">
 <ul><li><strong>full democracy</strong>: comprehensive extent of democracy, few weaknesses</li><li><strong>flawed democracy</strong>: some weaknesses in democratic institutions and culture</li><li><strong>hybrid regime</strong>: serious weaknesses in democratic institutions and culture</li><li><strong>authoritarian regime</strong>: few democratic institutions and little democratic culture</li></ul>
 </div>
 </div>

diff --git a/democracies-measurement.html b/democracies-measurement.html
@@ -531,7 +531,7 @@ Justifies democracy characteristics</td>
 
 
 
-<div class="wp-container-632c86a92872b wp-block-group">
+<div class="wp-container-632c8b8f8befc wp-block-group">
 <ul><li><strong>full democracy</strong>: comprehensive extent of democracy, few weaknesses</li><li><strong>flawed democracy</strong>: some weaknesses in democratic institutions and culture</li><li><strong>hybrid regime</strong>: serious weaknesses in democratic institutions and culture</li><li><strong>authoritarian regime</strong>: few democratic institutions and little democratic culture</li></ul>
 </div>
 </div>
